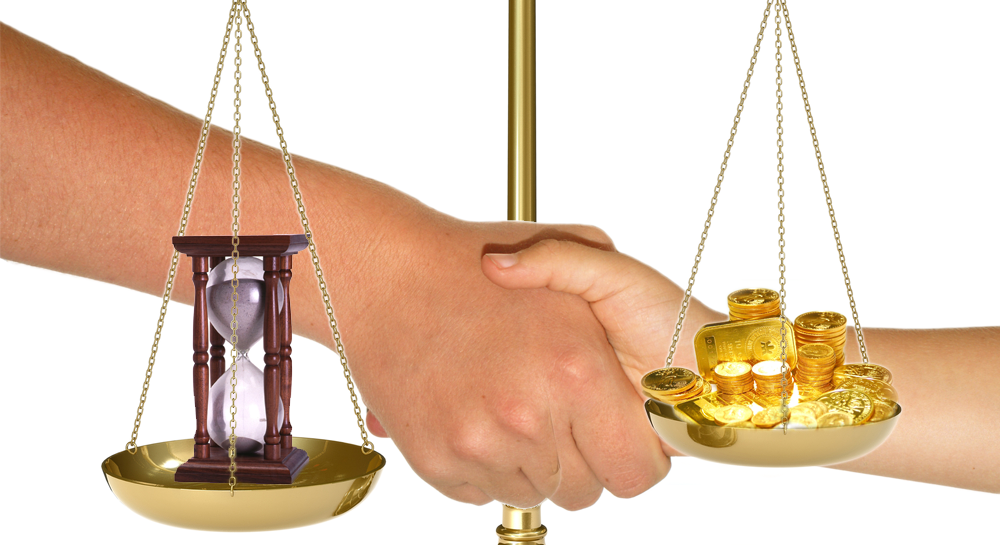
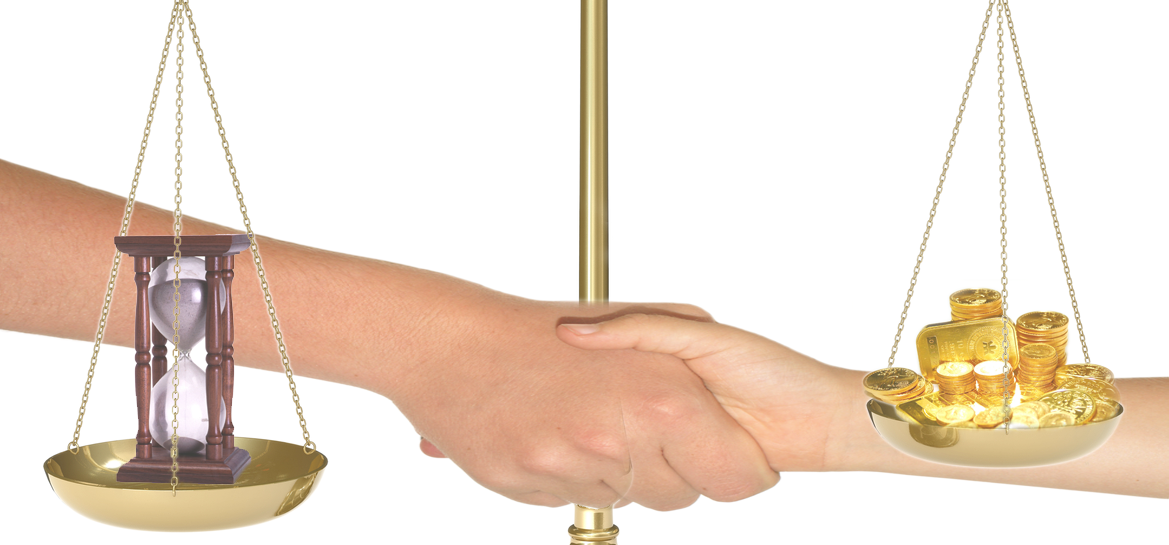
lighter

diff --git a/create.html b/create.html
@@ -83,7 +83,7 @@
       <!-- Main hero unit for a primary marketing message or call to action -->
       <div class="hero-unit create-title">
         <h1>Unlocking Creativity</h1>
-        <p>The web has allows everyone to be an artist, a publisher, and a producer. It has given tools that allow individuals to achieve their vision and share it with the world in a way that is cost effective, and any good idea can go viral. This has allowed everyone to express themselves in any manner, and share that expression with the world.</p>
+        <p>The web has allowed everyone to be an artist, a publisher, and a producer. It has given tools that allow individuals to achieve their vision and share it with the world in a way that is cost effective, and any good idea can go viral. This has allowed everyone to express themselves in any manner, and share that expression with the world.</p>
       </div>
 
       <!-- Example row of columns -->  

diff --git a/css/bootstrap.min.css b/css/bootstrap.min.css
@@ -837,7 +837,7 @@ a.label:hover,a.badge:hover{color:#ffffff;text-decoration:none;cursor:pointer;}
     -1px 1px 0 #FFF,
      1px 1px 0 #FFF;}
 .social-title{background:url('http://webst.ir/social.png') no-repeat center center fixed;}
-.exchange-title{background:url('http://webst.ir/exchange.png') no-repeat center top fixed; background-size:80%;}
+.exchange-title{background:url('http://webst.ir/exchange2.png') no-repeat center top fixed; background-size:80%;}
 .create-title{background:url('http://webst.ir/create2.png') no-repeat center top fixed; background-size:100%;}
 .pull-right{float:right;}
 .pull-left{float:left;}
